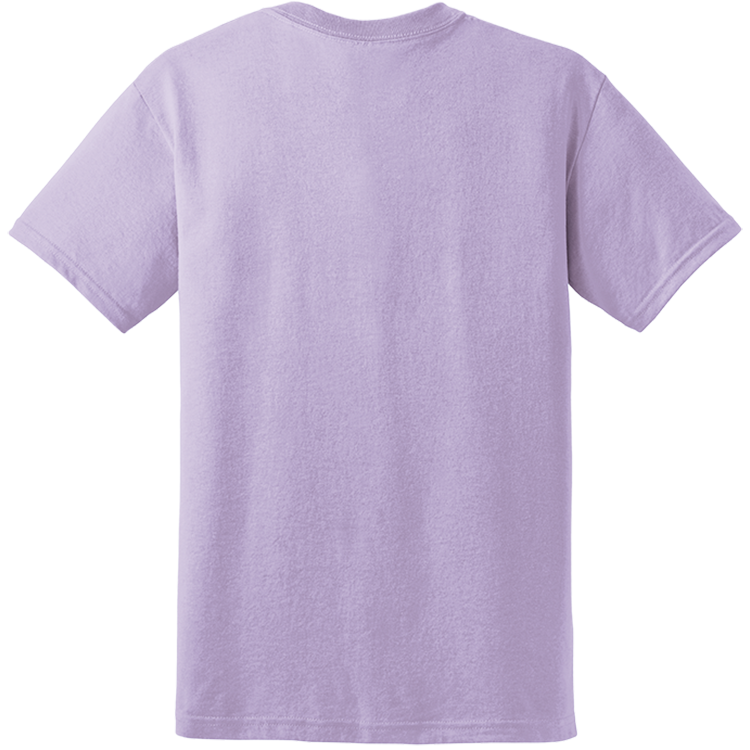
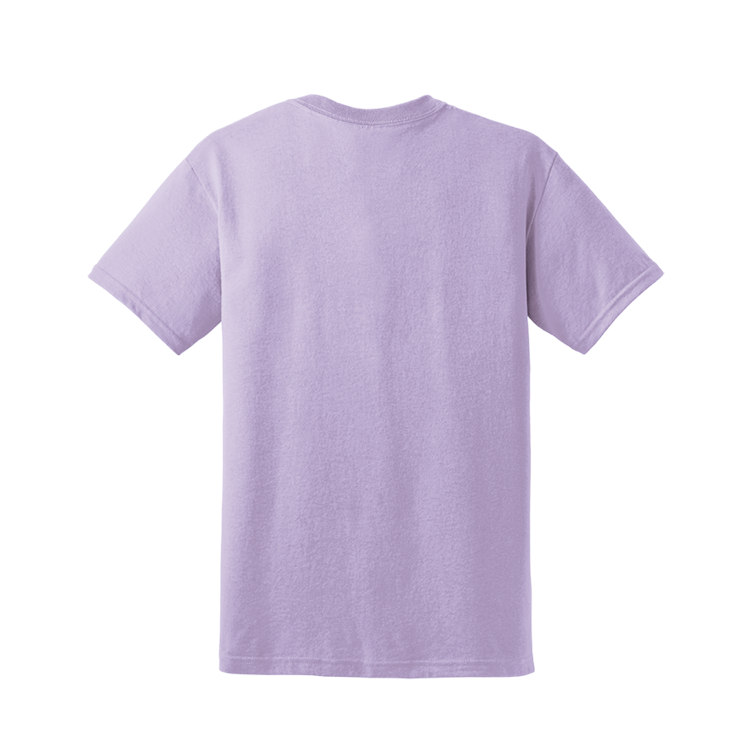
add white margin on zoom photo to see the corners

Changed region(s): [[0.0, 0.0, 0.9813, 1.0]]

diff --git a/client/src/components/Articles/articles.scss b/client/src/components/Articles/articles.scss
@@ -62,7 +62,7 @@
         position: fixed;
         top: 0;
         left: 0;
-        background-image: url("./tshirt.jpg");
+        background-image: url("./tshirt2.jpg");
         background-repeat: no-repeat;
       }
 
